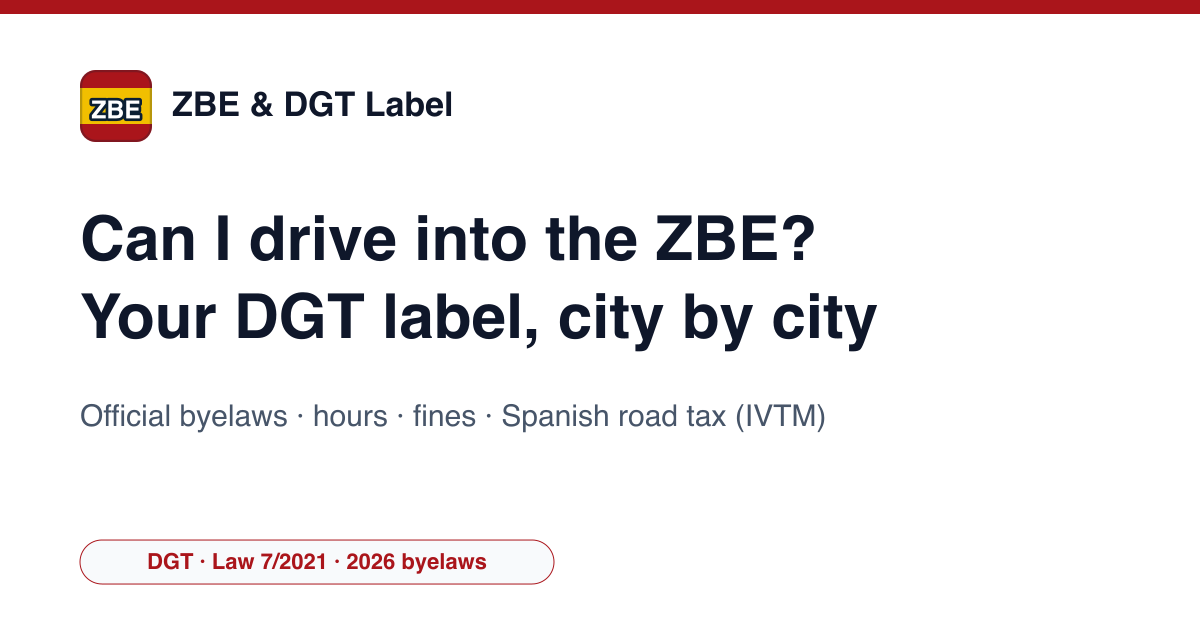
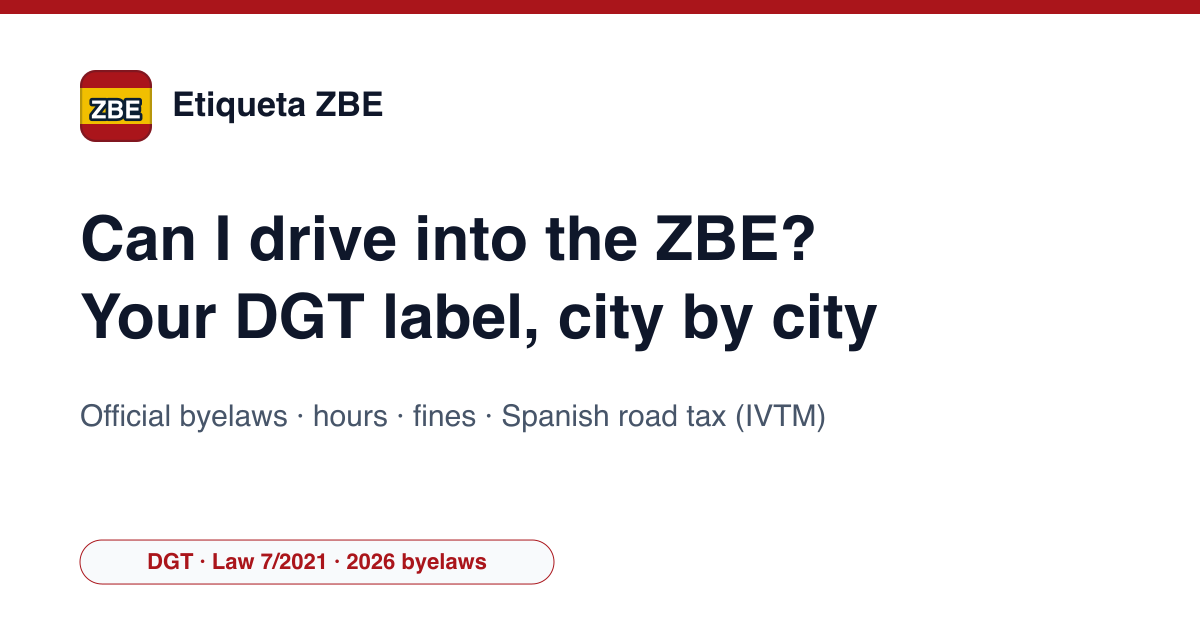
Nom du site : Etiqueta ZBE (les mots du domaine, ZBE en couleur dans l'en-tête), le même en espagnol et en anglais, au lieu de « ZBE y Etiqueta » / « ZBE & DGT Label » : en-tête, pied de page, nom du site pour Google, manifest, llms.txt, images de partage, pages Quiénes somos / About, política edito

Changed region(s): [[0.1233, 0.1206, 0.4008, 0.2111]]

diff --git a/src/i18n/ui.ts b/src/i18n/ui.ts
@@ -6,7 +6,7 @@ const es = {
   skipToContent: 'Ir al contenido', mainNav: 'Navegación principal', breadcrumbLabel: 'Ruta de navegación', breadcrumbHome: 'Inicio', menuOpen: 'Abrir el menú',
   faqTitle: 'Lo que preguntan los conductores', relatedCalculators: 'Sigue con', sourcesTitle: 'Ordenanzas y normas consultadas', writtenBy: 'Redactado por',
   asOf: 'Reglas', lastUpdated: 'comprobadas en las fuentes oficiales el', footerValidated: `Criterios de la DGT, ${CIUDADES.length} ordenanzas de ZBE y ${MUNICIPIOS.length} ordenanzas fiscales leídas en su texto oficial`, footerBrowser: 'Todo se calcula en tu navegador · no se envía ni se guarda nada · gratis y sin registro',
-  footerDisclaimer: 'ZBE y Etiqueta es un servicio independiente de Radif Partners. No somos la DGT ni ningún ayuntamiento, no vendemos pegatinas y no tramitamos recursos. El resultado es una estimación según las ordenanzas publicadas: manda la ordenanza vigente y, para tu etiqueta, la consulta por matrícula de la DGT. Es una estimación orientativa que no sustituye a la ordenanza ni al criterio del ayuntamiento.', footerPopular: '', notFound: 'No hay ninguna página en esta dirección.',
+  footerDisclaimer: 'Etiqueta ZBE es un servicio independiente de Radif Partners. No somos la DGT ni ningún ayuntamiento, no vendemos pegatinas y no tramitamos recursos. El resultado es una estimación según las ordenanzas publicadas: manda la ordenanza vigente y, para tu etiqueta, la consulta por matrícula de la DGT. Es una estimación orientativa que no sustituye a la ordenanza ni al criterio del ayuntamiento.', footerPopular: '', notFound: 'No hay ninguna página en esta dirección.',
   readMore: 'Seguir leyendo',
 };
 const en: typeof es = {
@@ -14,7 +14,7 @@ const en: typeof es = {
   skipToContent: 'Skip to content', mainNav: 'Main navigation', breadcrumbLabel: 'Breadcrumb', breadcrumbHome: 'Home', menuOpen: 'Open menu',
   faqTitle: 'What drivers ask', relatedCalculators: 'Continue with', sourcesTitle: 'Byelaws and laws consulted', writtenBy: 'Written by',
   asOf: 'Rules', lastUpdated: 'checked against the official sources on', footerValidated: `DGT criteria, ${CIUDADES.length} low-emission-zone byelaws and ${MUNICIPIOS.length} road-tax byelaws read in their official text`, footerBrowser: 'Everything is worked out in your browser · nothing is sent or stored · free, no sign-up',
-  footerDisclaimer: 'ZBE & DGT Label is an independent service by Radif Partners. We are not the DGT or any city council, we do not sell stickers and we do not file appeals. Results are estimates based on the published byelaws: the byelaw in force and, for your label, the DGT number-plate lookup have the final word. This is an estimate only and does not replace the byelaw or the council’s decision.', footerPopular: '', notFound: 'There is no page at this address.',
+  footerDisclaimer: 'Etiqueta ZBE is an independent service by Radif Partners. We are not the DGT or any city council, we do not sell stickers and we do not file appeals. Results are estimates based on the published byelaws: the byelaw in force and, for your label, the DGT number-plate lookup have the final word. This is an estimate only and does not replace the byelaw or the council’s decision.', footerPopular: '', notFound: 'There is no page at this address.',
   readMore: 'Read more',
 };
 export function t(lang: Locale) { return lang === 'en' ? en : es; }

diff --git a/src/data/site-config.ts b/src/data/site-config.ts
@@ -1,6 +1,8 @@
 /** Configuration centrale du site (générée par new-site.py). */
 export const SITE_URL = "https://etiquetazbe.es";
-export const SITE_NAMES: Record<string, string> = {"es": "ZBE y Etiqueta", "en": "ZBE & DGT Label"};
+// Partie du nom en couleur dans l'en-tete ('' = aucune).
+export const BRAND_ACCENT = 'ZBE';
+export const SITE_NAMES: Record<string, string> = {"es": "Etiqueta ZBE", "en": "Etiqueta ZBE"};
 export const LANG_TAGS: Record<string, string> = {"es": "es-ES", "en": "en-ES"};
 export const OG_LOCALES: Record<string, string> = {"es": "es_ES", "en": "en_GB"};
 export const LOCALE_TAG = 'es-ES';
